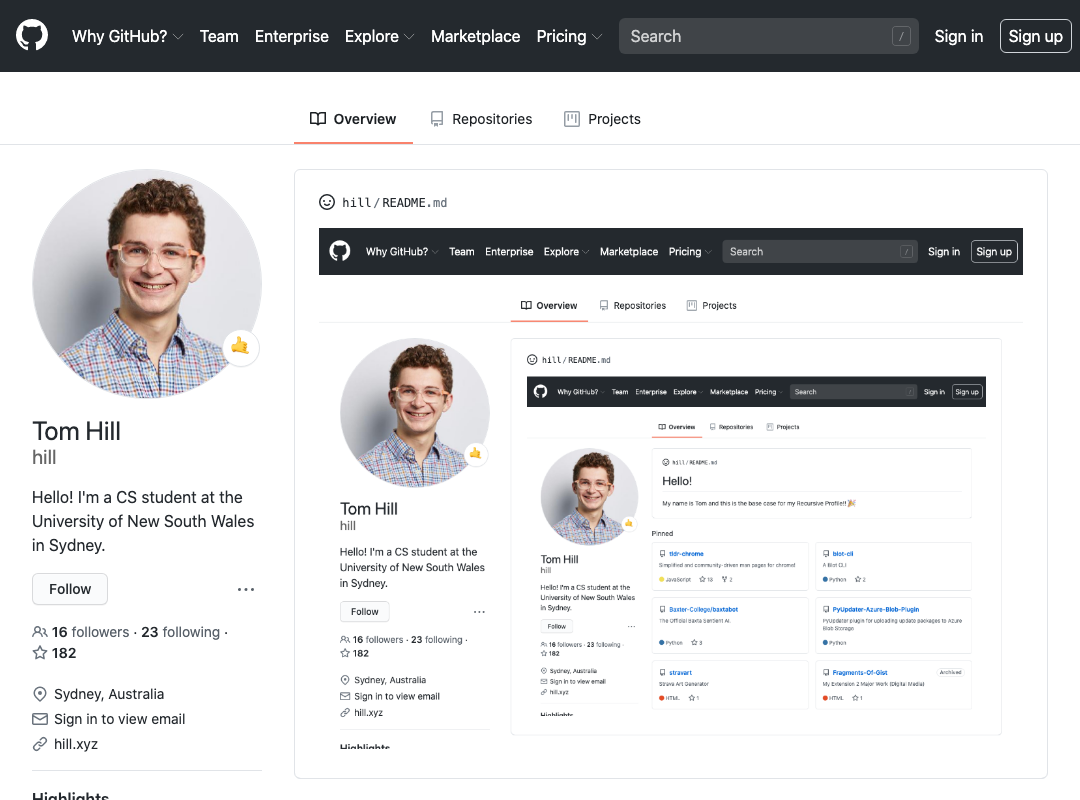
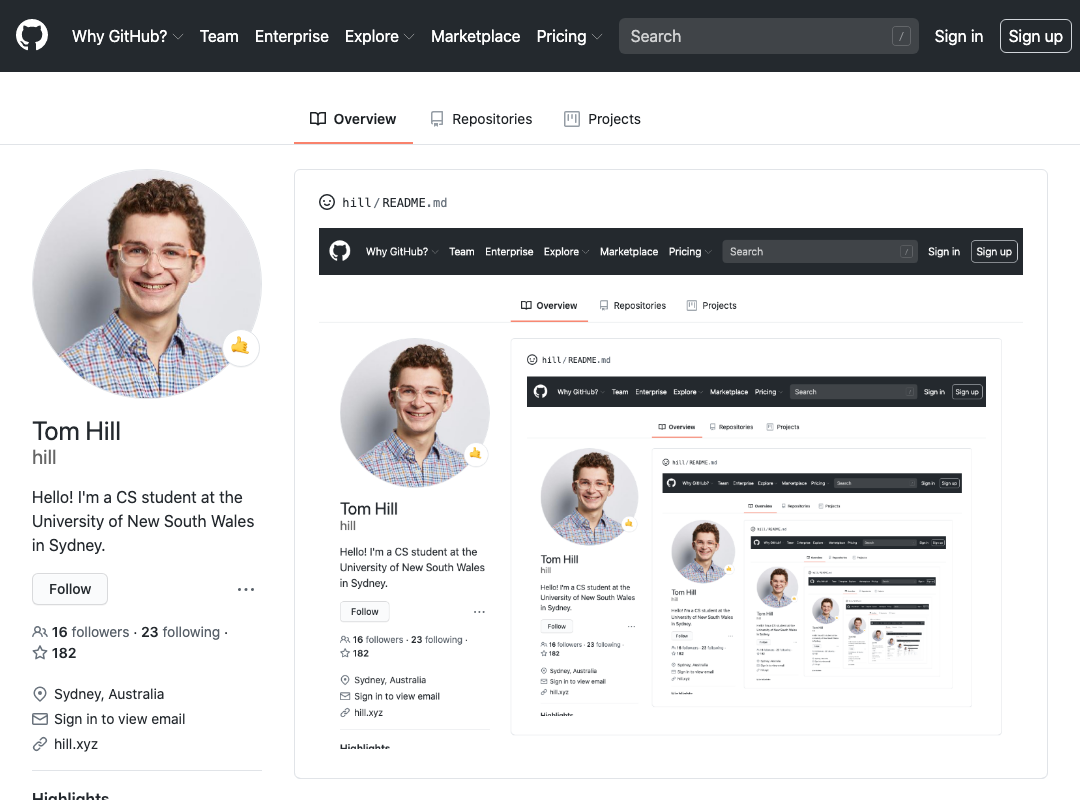
"adds new screenshot at depth 4"

Changed region(s): [[0.6111, 0.5938, 0.9167, 0.875]]

diff --git a/README.md b/README.md
@@ -1,1 +1,1 @@
-![Woah!](https://github.com/hill/hill/blob/master/screenshot-5.png)
+![Woah!](https://github.com/hill/hill/blob/master/screenshot-4.png)
